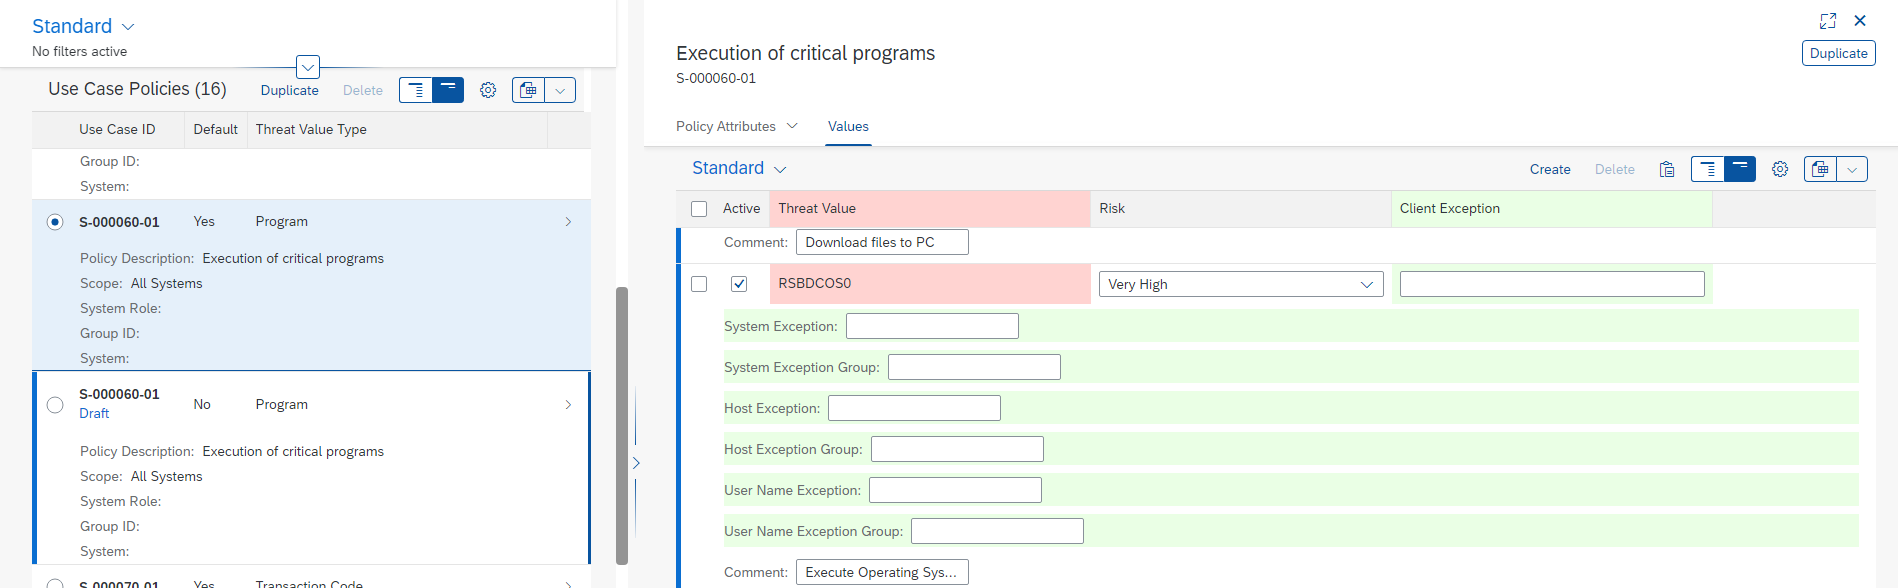
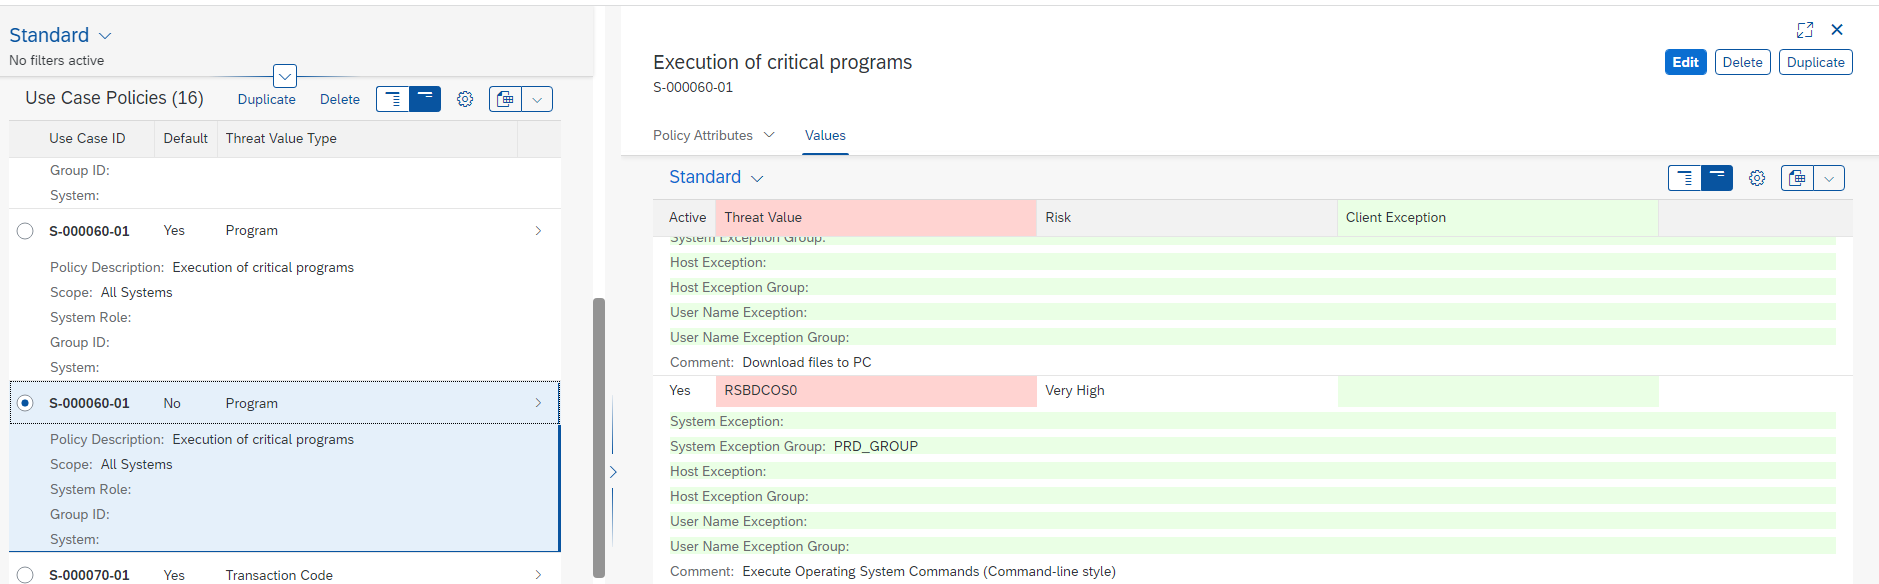
GitBook: [#468] No subject

diff --git a/application-setup/use-case-policies/configuring-policy-settings/examples-of-configuring-policies.md b/application-setup/use-case-policies/configuring-policy-settings/examples-of-configuring-policies.md
@@ -2,7 +2,15 @@
 
 ### Configuring policies
 
-For configuring new policies, find an example below:&#x20;
+The policies are indicated with colors, fields with green background means exceptions that can be given greenlight, Whereas Red means that these Threats triggers are the triggers in the respective Use Case.&#x20;
+
+Only Use Cases with Threat values have an additional field Named Threat, that have a red background color indicating that the Use Case checks these values.
+
+Additional Threat Values can be added for example Z table or Z report.
+
+
+
+To configure new policies, find few examples below:&#x20;
 
 #### Use Case with no known Threat value
 
@@ -39,4 +47,8 @@ To finalize, click on Save to commit your changes at the lower right corner. ![]
 Should you want to keep the policy and only want to temporary turn off, click the checkbox of the deactivate to deactivate without deleting. Additionally you can use the comment field to explain why it was deactivated.
 
 #### Use Case with known Threat value
+
+Use cases with known threat value have a column named "Threat Value". This column has a red background color for easier indication.
+
+<figure><img src="../../../.gitbook/assets/image.png" alt=""><figcaption><p>Use Case with Threat values</p></figcaption></figure>
 

diff --git a/application-setup/use-case-policies/configuring-policies-with-groups.md b/application-setup/use-case-policies/configuring-policies-with-groups.md
@@ -20,6 +20,6 @@ Depending on what kind of group you have created, you can use that group for the
 
 To use a group in the Policy, simply enter the group name for the corresponding Threat you would like to exempt, In our example:
 
-<figure><img src="../../.gitbook/assets/image.png" alt=""><figcaption><p>Use Case policy edit</p></figcaption></figure>
+<figure><img src="../../.gitbook/assets/image (2).png" alt=""><figcaption><p>Use Case policy edit</p></figcaption></figure>
 
 Only 1 group can be assigned per Threat, But should you have multiple groups, you can define different groups per Threat, should you wish to do so.

diff --git a/application-setup/group-application.md b/application-setup/group-application.md
@@ -10,6 +10,8 @@ description: Creating and using groups to simplify TD usage
 
 Upon opening the application, you have the option to create various types of Groups to simplify the  policy configuration so that you can create your own group and reuse them later.
 
+The number on the Fiori application tile indicates how many groups exist.
+
 
 
 To create a group, click on create on the initial screen.
